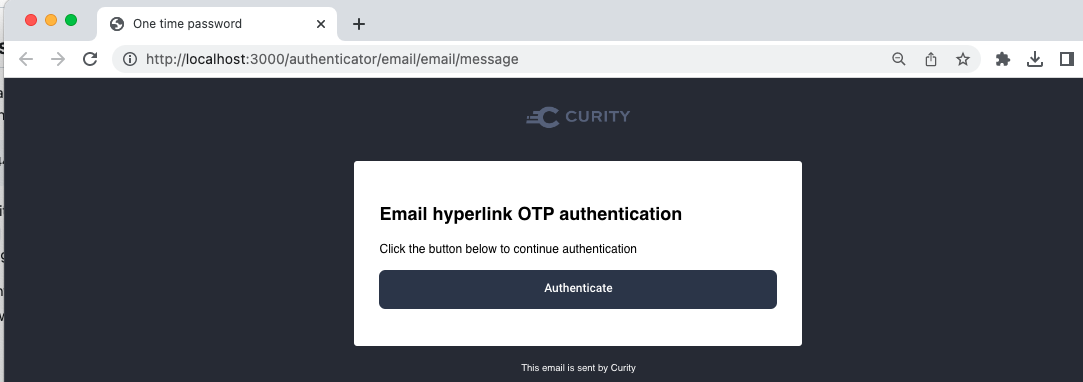
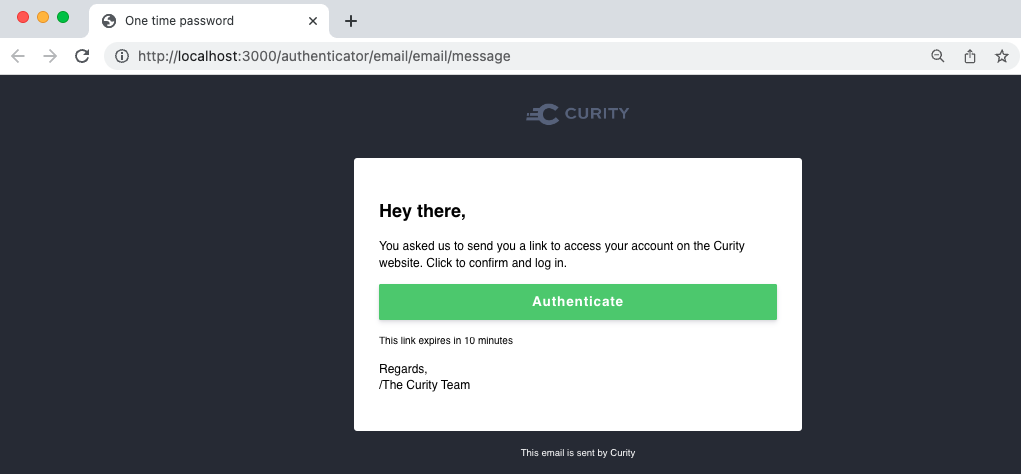
Updates

Changed region(s): [[0.3036, 0.2592, 0.7894, 0.9215], [0.0, 0.0, 1.0, 1.0], [0.4858, 0.9503, 0.6376, 0.9791]]

diff --git a/recipes/email/README.md b/recipes/email/README.md
@@ -4,13 +4,14 @@ This recipe shows how to implement email customizations with the templating syst
 
 ## UI Builder Development
 
-When the UI builder is run, a custom email template is shown:
+When the UI builder is run, a custom email template is shown when using the email authenticator:
 
 ![UI Builder Login](../../images/email/email-template.png)
 
 ## Deploy and Test the Branding
 
 When the system is deployed, you can create a test user using the `Create Account` option on the HTML form.\
-Then run a `Forgot Password` flow and browse to http://localhost:1080 to see the real email:
+Then run an Email authentication flow to sign in with a magic link.\
+Then browse to http://localhost:1080 to complete authentication byu clicking the link:
 
 ![OAuth Tools Login](../../images/email/real-email.png)
